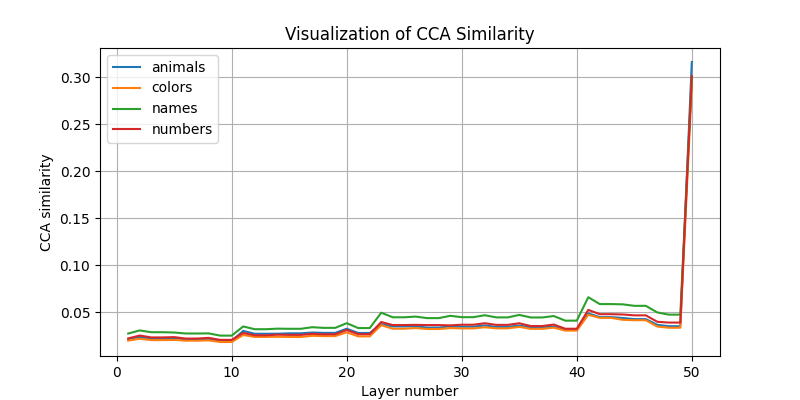
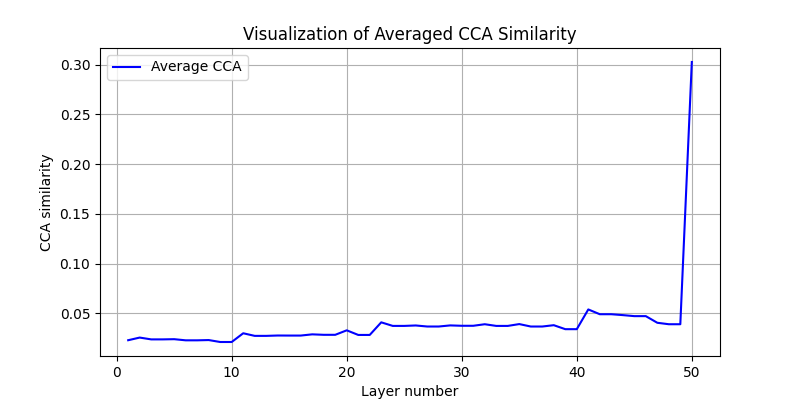
average cca change

diff --git a/words_classification/cca_similarity/cca_analysis.py b/words_classification/cca_similarity/cca_analysis.py
@@ -142,11 +142,14 @@ def visualize_cca_score(cca_coefs, save_path):
     """
     os.makedirs(os.path.dirname(save_path), exist_ok=True)
 
-    plt.figure(figsize=(8, 4))
-    for label, coef in cca_coefs.items():
-        plt.plot(range(1, len(coef) + 1), coef, label=label)
+    all_coefs = np.array(list(cca_coefs.values()))
+    
+    averaged_coefs = np.mean(all_coefs, axis=0)
 
-    plt.title("Visualization of CCA Similarity")
+    plt.figure(figsize=(8, 4))
+    plt.plot(range(1, len(averaged_coefs) + 1), averaged_coefs, label='Average CCA', color='blue')
+
+    plt.title("Visualization of Averaged CCA Similarity")
     plt.xlabel("Layer number")
     plt.ylabel("CCA similarity")
     plt.legend()
